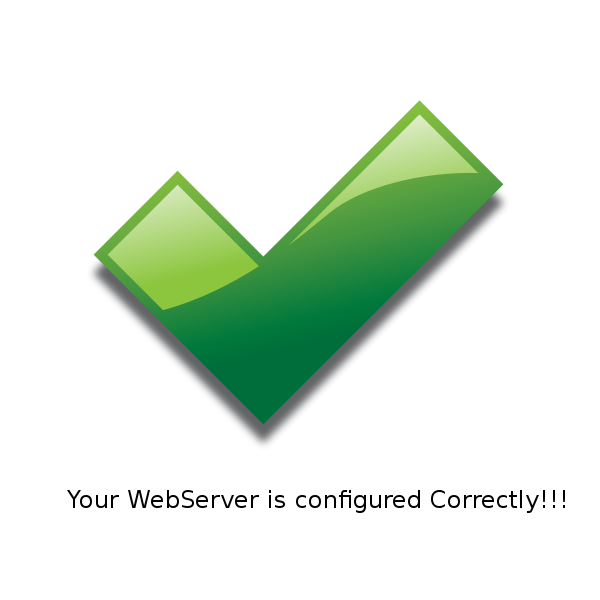
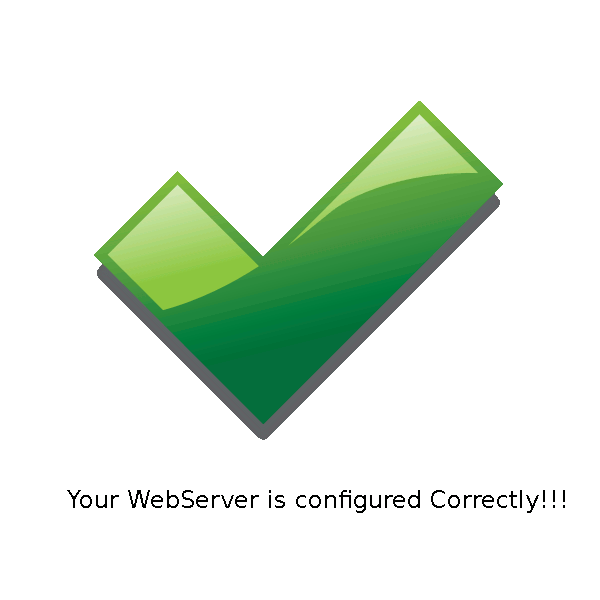
Images are now *very* compressed

diff --git a/images/index.html b/images/index.html
@@ -1,6 +1,6 @@
 <html>
  <body>
    What are you doing here? 
-   <a href="..">Click here to go back to myloader</a>
+   <a href="..">Click here to go back to myuploads</a>
  </body>
 </html>
